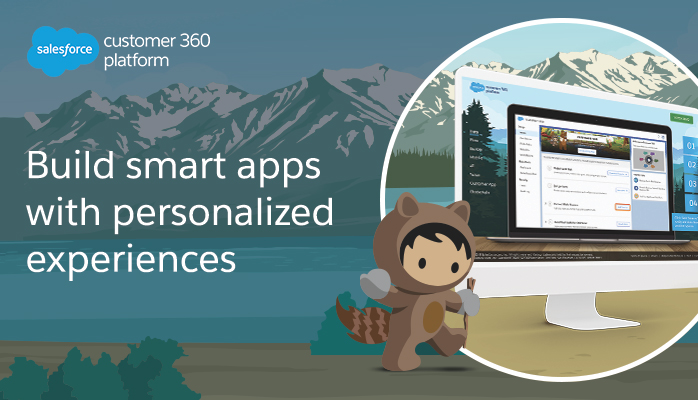
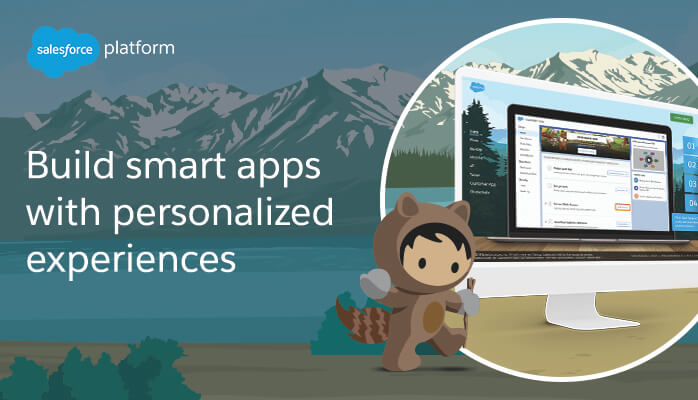
removal voice, blockchain, and copy updates (#258)
* Add node version

* Client requested updates

* Copy updates (#257)

* Update logo

* Update social images

* Update Outro Images

* Remove buttons from image

* Change outro button

* Outro copy update

diff --git a/src/index.config.js b/src/index.config.js
@@ -162,30 +162,54 @@ export default function ($stateProvider, $urlRouterProvider, $provide) {
         resetState(TopNavbar, Hotspots);
       }
     })
-    .state('chapter-blockchain', {
-      url: '/chapter-blockchain',
-      views: {
-        monitor: {
-          template: require('./partials/chapter-blockchain/desktop.html'),
-          controller: 'ChapterBlockchainController'
-        },
-        drawer: {
-          template: require('./partials/chapter-blockchain/drawer.html'),
-          controller: 'ChapterBlockchainDrawerController'
-        },
-        phone: {
-          template: require('./partials/chapter-blockchain/phone.html'),
-          controller: 'ChapterBlockchainPhoneController'
-        },
-        mobile: {
-          template: require('./partials/chapter-blockchain/mobile.html'),
-          controller: 'ChapterBlockchainMobileController'
-        }
-      },
-      onEnter(TopNavbar, Hotspots) {
-        resetState(TopNavbar, Hotspots);
-      }
-    })
+    // .state('chapter-blockchain', {
+    //   url: '/chapter-blockchain',
+    //   views: {
+    //     monitor: {
+    //       template: require('./partials/chapter-blockchain/desktop.html'),
+    //       controller: 'ChapterBlockchainController'
+    //     },
+    //     drawer: {
+    //       template: require('./partials/chapter-blockchain/drawer.html'),
+    //       controller: 'ChapterBlockchainDrawerController'
+    //     },
+    //     phone: {
+    //       template: require('./partials/chapter-blockchain/phone.html'),
+    //       controller: 'ChapterBlockchainPhoneController'
+    //     },
+    //     mobile: {
+    //       template: require('./partials/chapter-blockchain/mobile.html'),
+    //       controller: 'ChapterBlockchainMobileController'
+    //     }
+    //   },
+    //   onEnter(TopNavbar, Hotspots) {
+    //     resetState(TopNavbar, Hotspots);
+    //   }
+    // })
+    // .state('chapter-voice', {
+    //   url: '/chapter-voice',
+    //   views: {
+    //     monitor: {
+    //       template: require('./partials/chapter-voice/desktop.html'),
+    //       controller: 'ChapterVoiceController'
+    //     },
+    //     drawer: {
+    //       template: require('./partials/chapter-voice/drawer.html'),
+    //       controller: 'ChapterVoiceDrawerController'
+    //     },
+    //     phone: {
+    //       template: require('./partials/chapter-voice/phone.html'),
+    //       controller: 'ChapterVoicePhoneController'
+    //     },
+    //     mobile: {
+    //       template: require('./partials/chapter-voice/mobile.html'),
+    //       controller: 'ChapterVoiceMobileController'
+    //     }
+    //   },
+    //   onEnter(TopNavbar, Hotspots) {
+    //     resetState(TopNavbar, Hotspots);
+    //   }
+    // })
     .state('chapter-mobile', {
       url: '/chapter-mobile',
       views: {
@@ -204,30 +228,6 @@ export default function ($stateProvider, $urlRouterProvider, $provide) {
         mobile: {
           template: require('./partials/chapter-mobile/mobile.html'),
           controller: 'ChapterMobileMobileController'
-        }
-      },
-      onEnter(TopNavbar, Hotspots) {
-        resetState(TopNavbar, Hotspots);
-      }
-    })
-    .state('chapter-voice', {
-      url: '/chapter-voice',
-      views: {
-        monitor: {
-          template: require('./partials/chapter-voice/desktop.html'),
-          controller: 'ChapterVoiceController'
-        },
-        drawer: {
-          template: require('./partials/chapter-voice/drawer.html'),
-          controller: 'ChapterVoiceDrawerController'
-        },
-        phone: {
-          template: require('./partials/chapter-voice/phone.html'),
-          controller: 'ChapterVoicePhoneController'
-        },
-        mobile: {
-          template: require('./partials/chapter-voice/mobile.html'),
-          controller: 'ChapterVoiceMobileController'
         }
       },
       onEnter(TopNavbar, Hotspots) {

diff --git a/src/components/progress-navbar/partials/progress-navbar.html b/src/components/progress-navbar/partials/progress-navbar.html
@@ -21,9 +21,9 @@
     <li ui-sref-active="active"><a ui-sref="chapter-builder" ng-click="resetStep('chapter-builder')"><span progress-state-class="3">Builder</span></a></li>
     <li ui-sref-active="active"><a ui-sref="chapter-mobile" ng-click="resetStep('chapter-mobile')"><span progress-state-class="4">Mobile</span></a></li>
     <li ui-sref-active="active"><a ui-sref="chapter-ai" ng-click="resetStep('chapter-ai')"><span  progress-state-class="5">AI</span></a></li>
-    <li ui-sref-active="active"><a ui-sref="chapter-voice" ng-click="resetStep('chapter-voice')"><span progress-state-class="6">Voice</span></a></li>
+<!--    <li ui-sref-active="active"><a ui-sref="chapter-voice" ng-click="resetStep('chapter-voice')"><span progress-state-class="6">Voice</span></a></li>-->
     <li ui-sref-active="active"><a ui-sref="chapter-customer-app" ng-click="resetStep('chapter-customer-app')"><span progress-state-class="7">Customer App</span></a></li>
-    <li ui-sref-active="active"><a ui-sref="chapter-blockchain" ng-click="resetStep('chapter-blockchain')"><span progress-state-class="8">Blockchain</span></a></li>
+<!--    <li ui-sref-active="active"><a ui-sref="chapter-blockchain" ng-click="resetStep('chapter-blockchain')"><span progress-state-class="8">Blockchain</span></a></li>-->
     <!--<li ui-sref-active="active"><a progress-disabled-class="5" ui-sref="engagement-studio"><span progress-state-class="5"></span></a></li>-->
   </ul>
   <ul class="nav nav-stacked progress-navbar inverted" ng-class="{'active':progress.open}">
@@ -46,9 +46,9 @@
     <li ui-sref-active="active"><a progress-disabled-class="3" ui-sref="chapter-builder"><span progress-state-inverted-class="3"></span><span class="label">Builder</span></a></li>
     <li ui-sref-active="active"><a progress-disabled-class="4" ui-sref="chapter-mobile"><span progress-state-inverted-class="4"></span><span class="label">Mobile</span></a></li>
     <li ui-sref-active="active"><a progress-disabled-class="5" ui-sref="chapter-ai"><span progress-state-inverted-class="5"></span><span class="label">AI</span></a></li>
-    <li ui-sref-active="active"><a progress-disabled-class="6" ui-sref="chapter-voice"><span progress-state-inverted-class="6"></span><span class="label">Voice</span></a></li>
+<!--    <li ui-sref-active="active"><a progress-disabled-class="6" ui-sref="chapter-voice"><span progress-state-inverted-class="6"></span><span class="label">Voice</span></a></li>-->
     <li ui-sref-active="active"><a progress-disabled-class="7" ui-sref="chapter-customer-app"><span progress-state-inverted-class="7"></span><span class="label">Customer App</span></a></li>
-    <li ui-sref-active="active"><a progress-disabled-class="7" ui-sref="chapter-blockchain"><span progress-state-inverted-class="8"></span><span class="label">Blockchain</span></a></li>
+<!--    <li ui-sref-active="active"><a progress-disabled-class="7" ui-sref="chapter-blockchain"><span progress-state-inverted-class="8"></span><span class="label">Blockchain</span></a></li>-->
     <li class="text-center"><a id="start-over" class="btn btn-rounded btn-blue" href="#" ng-click="progress.startOver($event)">Start Over</a></li>
     <li class="text-center">&nbsp;</li>
     <li class="text-center skip-links"><a href="#" class="skip" ng-click="progress.skipToPreviousTask($event)" ng-show="$root.canSkipPrevious"><span class="salesforce-icon icon-sfdc-icon-right-arrow" aria-hidden="true"></span> Go to Previous Task</a> <span class="divider" ng-show="$root.canSkipPrevious && $root.canSkip"> | </span> <a href="#" class="skip" ng-click="progress.skipToNextTask($event)" ng-show="$root.canSkip">Skip to Next Task <span class="salesforce-icon icon-sfdc-icon-left-arrow" aria-hidden="true"></span></a></li>

diff --git a/src/index.html b/src/index.html
@@ -4,21 +4,21 @@
 <head>
   <meta charset="utf-8">
   <meta name="robots" content="noindex, nofollow" />
-  <title>Customer 360 Platform Tour</title>
+  <title>Salesforce Platform Tour</title>
   <meta name="description" content="">
-  <meta name="application-name" content="Customer 360 Platform Tour">
+  <meta name="application-name" content="Salesforce Platform Tour">
   <meta name="description" content="">
   <meta name="keywords" content="salesforce, interactive, guided tour">
   <meta name="robots" content="no-index, no-follow">
-  <meta name="og:title" content="Customer 360 Platform Tour">
+  <meta name="og:title" content="Salesforce Platform Tour">
   <meta name="og:description" content="Learn how to build smart apps with personalized experiences to delight every customer and employee.">
   <meta name="og:type" content="website">
   <meta name="og:image" content="/assets/images/facebook-c360-tour-social-share.jpg">
-  <meta name="og:site_name" content="Customer 360 Platform Tour">
+  <meta name="og:site_name" content="Salesforce Platform Tour">
   <meta name="twitter:card" content="summary_large_image">
   <meta name="twitter:site" content="@salesforce">
-  <meta name="twitter:creator" content="@launchjourney">
-  <meta name="twitter:title" content="Customer 360 Platform Tour">
+  <meta name="twitter:creator" content="@launchxd">
+  <meta name="twitter:title" content="Salesforce Platform Tour">
   <meta name="twitter:description" content="Learn how to build smart apps with personalized experiences to delight every customer and employee.">
   <meta name="twitter:image" content="/assets/images/c360-tour-social-share-twitter.jpg">
   <meta name="viewport" content="width=device-width, initial-scale=1, maximum-scale=1, user-scalable=no">
@@ -42,7 +42,7 @@
 
     gtag('config', 'UA-142664671-2');
   </script>
-  
+
   <!-- OneTrust Cookies Consent Notice start -->
   <script src="./oneTrust/79a259f2-a572-43a3-997e-57ccda252e80.js"  type="text/javascript" charset="UTF-8"></script>
   <script type="text/javascript">
@@ -113,7 +113,7 @@
         <div class="blocker">
           <div class="phone">
             <div id="astroPeeking" class="astro-peeking astro-peeking-hidden">
-              <img class="peakingAstro" 
+              <img class="peakingAstro"
                   src="assets/images/chapters/chapter-voice/astro-orange-glow.gif" />
             </div>
             <div class="phone-backdrop">
@@ -133,7 +133,7 @@
         </div>
         <div class="row product-tour" ng-hide="$state.current.name == 'welcome'">
           <div class="col-xs-12">
-            <h1>Customer 360 Platform Tour</h1>
+            <h1>Salesforce Platform Tour</h1>
           </div>
         </div>
       </div>

diff --git a/src/partials/chapter-customer-app/desktop.html b/src/partials/chapter-customer-app/desktop.html
@@ -22,7 +22,7 @@
             <div class="step step-1a">
               <div class="click-box active" ng-click="NextSlideNoTab()"></div>
             </div>
-          </wz-step>          
+          </wz-step>
           <wz-step>
             <div class="step step-1b">
               <div class="flyout active">
@@ -44,7 +44,7 @@
             <div class="step step-3">
               <div class="click-box active" ng-click="NextSlideNoTab()"></div>
             </div>
-          </wz-step>          
+          </wz-step>
           <wz-step>
             <div class="step step-4a">
               <div class="flyout active">
@@ -66,12 +66,10 @@
                 </div>
               <li-center>
                 <p class="customer-app">
-                  Your customers have all the tools they need to make any
-                  updates in one engaging app. Let's see how we can make the
-                  experience even better by adding transparency with blockchain.
+                  You’ve created an engaging, personalized app experience for your customers and can empower your employees to do the same, all with little to no code. <br/> <br/>Ready to discover more about what the Salesforce Platform can do for you?
                 </p>
                 <p>
-                  <a ui-sref="chapter-blockchain" li-autofocus="wizard.stateIndex == 8" class="btn btn-rounded active">Continue</a>
+                  <a ui-sref="outro" li-autofocus="wizard.stateIndex == 8" class="btn btn-rounded active">Continue</a>
                   <a href="https://www.salesforce.com/products/heroku/overview" class="success-text-link" target="_blank" rel="noopener noreferrer">Learn More About Heroku</a>
                   <span class="carat"><i></i></span>
                 </p>

diff --git a/src/components/top-navbar/styles/_top-navbar.scss b/src/components/top-navbar/styles/_top-navbar.scss
@@ -151,7 +151,7 @@ nav.top-navbar {
       @media only screen and (min-device-width: 481px) and (max-device-width: 1024px) and (orientation: landscape) {
         top: -15px;
       }
-      
+
       .navbar-header {
         margin-right: 0;
         margin-left: 0;
@@ -164,7 +164,7 @@ nav.top-navbar {
         padding: 15px;
         height: 70px;
         .logo {
-          background-image: url(../../../assets/images/logos/2017-sf-customer-360-platform-logo-rgb.png);
+          background-image: url(../../../assets/images/logos/salesforce-platform-logo.svg);
           width: 143px;
           height: 55px;
           display: block;
@@ -174,7 +174,7 @@ nav.top-navbar {
             only screen and (-o-min-device-pixel-ratio: 1.3 / 1),
             only screen and (min-resolution: 125dpi),
             only screen and (min-resolution: 1.3dppx) {
-            background-image: url(../../../assets/images/logos/2017-sf-customer-360-platform-logo-rgb@2x.png);
+            background-image: url(../../../assets/images/logos/salesforce-platform-logo.svg);
             background-size: contain;
             width: 163px;
           }

diff --git a/src/partials/chapter-ai/desktop.html b/src/partials/chapter-ai/desktop.html
@@ -29,10 +29,10 @@
                 </div>
               <li-center>
                 <p>
-                  Now your reps are equipped with the tools they need to win more deals and increase customer satisfaction. Let’s take a look at how a voice-enabled virtual assistant can increase their productivity.
+                  Now your reps are equipped with the tools they need to win more deals and increase customer satisfaction. Want to see how Heroku can provide a seamless, connected experience for you and your customers?
                 </p>
                 <p>
-                  <a ui-sref="chapter-voice" li-autofocus="wizard.stateIndex == 4" class="btn btn-rounded active">Continue</a>
+                  <a ui-sref="chapter-customer-app" li-autofocus="wizard.stateIndex == 4" class="btn btn-rounded active">Continue</a>
                   <a href="https://www.salesforce.com/products/platform/solutions/ai-services/" class="success-text-link" target="_blank" rel="noopener noreferrer">Learn more about AI</a>
                   <span class="carat"><i></i></span>
                 </p>

diff --git a/src/partials/chapter-ai/mobile.html b/src/partials/chapter-ai/mobile.html
@@ -75,11 +75,11 @@
               <div class="content-container">
                 <div class="success-text">
                   <p>
-                    Now your reps are equipped with the tools they need to win more deals and increase customer satisfaction. Let’s take a look at how a voice-enabled virtual assistant can increase their productivity.
+                    Now your reps are equipped with the tools they need to win more deals and increase customer satisfaction. Want to see how Heroku can provide a seamless, connected experience for you and your customers?
                   </p>
                 </div>
                 <div class="mobile-success-ctas">
-                  <a ui-sref="chapter-voice" li-autofocus="wizard.stateIndex == 11" class="btn btn-rounded">Continue</a>
+                  <a ui-sref="chapter-customer-app" li-autofocus="wizard.stateIndex == 11" class="btn btn-rounded">Continue</a>
                   <div class="text-link">
                     <a
                       href="https://www.salesforce.com/products/platform/solutions/ai-services/"

diff --git a/src/partials/welcome/desktop.html b/src/partials/welcome/desktop.html
@@ -5,7 +5,7 @@
         <wz-step>
           <div class="step step-0">
             <li-center>
-              <h2 class="intro-text">Welcome to the<br/>Customer 360 Platform Tour</h2>
+              <h2 class="intro-text">Welcome to the<br/>Salesforce Platform Tour</h2>
               <a id="begin-the-tour" ng-click="beginTour()" href="" li-autofocus="wizard.stateIndex == 0">
                 <text text-anchor="middle" x="50%" y="50%" alignment-baseline="middle">
                   Start
@@ -18,7 +18,7 @@
           <div class="step step-1">
             <div class="welcome-copy">
               <div class="welcome-copy-block">
-                <h2>Salesforce Customer 360 Platform Tour</h2>
+                <h2>Salesforce Platform Tour</h2>
                 <p>Welcome! In this tour, you’ll see how you can build smart apps with personalized experiences to delight every customer and employee. Ready?</p>
               </div>
               <a class="btn btn-intro active continue-button-1" href="" li-autofocus="wizard.stateIndex == 1" wz-next>Continue</a>

diff --git a/src/partials/chapter-customer-app/mobile.html b/src/partials/chapter-customer-app/mobile.html
@@ -61,11 +61,11 @@
             <div class="content-container">
               <div class="success-text">
                 <p>
-                  Your customers have all the tools they need to make any updates in one engaging app. Let’s see how we can make the experience even better by adding transparency with blockchain.
+                  You’ve created an engaging, personalized app experience for your customers and can empower your employees to do the same, all with little to no code. Ready to discover more about what the Salesforce Platform can do for you?
                 </p>
               </div>
               <div class="mobile-success-ctas">
-                <a ui-sref="chapter-blockchain" li-autofocus="wizard.stateIndex == 11" class="btn btn-rounded">Continue</a>
+                <a ui-sref="outro" li-autofocus="wizard.stateIndex == 11" class="btn btn-rounded">Continue</a>
                 <div class="text-link">
                   <a
                     href="https://www.salesforce.com/products/heroku/overview"

diff --git a/src/partials/welcome/mobile.html b/src/partials/welcome/mobile.html
@@ -4,7 +4,7 @@
       <div class="row hero">
         <div class="xs-12">
           <div class="logo"></div>
-          <h1>Welcome to the Customer 360 Platform Tour</h1>
+          <h1>Welcome to the Salesforce Platform Tour</h1>
           <h3 class="hidden-lg hidden-md">In this tour, you'll see how you can build smart apps with personalized experiences to delight every customer and employee. Ready?</h3>
           <h3 class="hidden-sm hidden-xs">In this tour, you'll see how you can build smart apps with personalized experiences to delight every customer and employee. Ready?</h3>
           <!-- <div class="text-center hidden-lg hidden-md">
@@ -23,9 +23,9 @@
             <br><br>
               Our mission is to digitize key customer processes — from test drive to delivery — using Salesforce builders, mobile, artificial intelligence (AI), and blockchain.
           </p>
-            
+
           <a ui-sref="chapter-data" class="btn btn-intro">Continue</a>
-            
+
         </div>
       </div>
     </div>

diff --git a/src/styles/_outro.scss b/src/styles/_outro.scss
@@ -9,7 +9,7 @@
   }
 
   .recap-1 {
-    background: url("../assets/images/chapters/outro/recap-1-new.jpg")
+    background: url("../assets/images/chapters/outro/recap-1-new.png")
       center center no-repeat;
     background-size: contain;
   }
@@ -38,7 +38,8 @@
     .recap-buttons {
       left: 50%;
       transform: translateX(-50%);
-      bottom: 330px;   
+      bottom: 330px;
+      width: 460px;
       .text {
         color: #000000;
         text-transform: uppercase;
@@ -159,7 +160,7 @@
       position: relative;
       @media only screen and (min-device-width: 481px) and (max-device-width: 1024px) and (orientation:landscape) {
         margin-top: -30px;
-      } 
+      }
       .slide-image {
         background: url(../assets/images/chapters/outro/mobile-outro-1.png) center center no-repeat;
         background-size: cover;
@@ -199,8 +200,8 @@
 
         }
       }
-      
+
     }
-    
+
   }
 }

diff --git a/src/styles/_welcome.scss b/src/styles/_welcome.scss
@@ -144,7 +144,7 @@
       }
     }
     .logo {
-      background-image: url(../assets/images/logos/2017-sf-customer-360-platform-logo-rgb.png);
+      background-image: url(../assets/images/logos/salesforce-platform-logo.svg);
       width: 275px;
       height: 95px;
       display: block;
@@ -154,7 +154,7 @@
         only screen and (-o-min-device-pixel-ratio: 1.3 / 1),
         only screen and (min-resolution: 125dpi),
         only screen and (min-resolution: 1.3dppx) {
-        background-image: url(../assets/images/logos/2017-sf-customer-360-platform-logo-rgb@2x.png);
+        background-image: url(../assets/images/logos/salesforce-platform-logo.svg);
         // background-size: 275px 95px;
         background-size: contain;
       }
